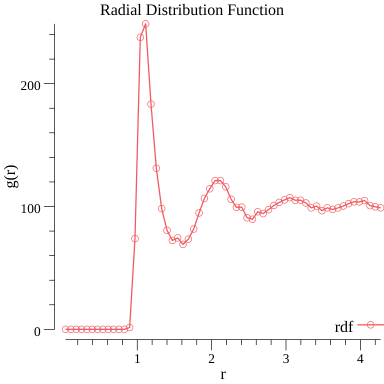
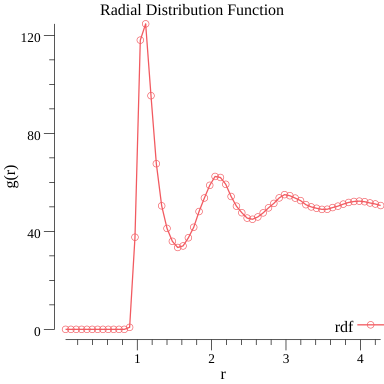
working first order langevin

diff --git a/integrators/langevin/langevin.go b/integrators/langevin/langevin.go
@@ -2,7 +2,9 @@
 package langevin
 
 import (
+	// "fmt"
 	"math"
+	// "os"
 	"math/rand"
 	"github.com/golang/geo/r3"
 	"github.com/comprhys/moldyn/core"
@@ -13,36 +15,46 @@ type VecReturn struct {
 	nV r3.Vector
 }
 
-// TimeStep evolves the system by one unit of time using the Velocity Verlet algorithm
-// for molecular dynamics using channels to provide simple parallelisarion.
-func TimeStep(R, V []r3.Vector, L, M, T0, gamma, dt float64) ([]r3.Vector, []r3.Vector) {
-	hdt := dt/2
+type Thermostat struct {
+	d float64
+	q float64
+	sigma float64
+	verlet bool
+}
+
+func PrepareThermostat(gamma, M, h, T0 float64, verlet bool) (Thermostat) {
+	d := h/2./M
+	q := gamma*h/2
+	sigma := math.Sqrt(h*T0*gamma/M)
+	return Thermostat{d, q, sigma, verlet}
+}
+
+
+// Implementation of first order langevin dynamics
+func TimeStep(R, V []r3.Vector, L, M, dt float64, therm Thermostat) ([]r3.Vector, []r3.Vector) {
 	N := len(R)
-	hR := make([]r3.Vector, N)
 	nR := make([]r3.Vector, N)
 	Fi := make([]r3.Vector, N)
 	nV := make([]r3.Vector, N)
 	cF := make(chan core.ForceReturn, N)
-	for n := 0; n < N; n++ {
-		hR[n] = core.PutInBox(NextR(R[n], V[n], hdt), L)
-	}
-	for i := 0; i < N; i++ { go core.InternalForce(i, hR, L, cF) }
+
+	for i := 0; i < N; i++ { go core.InternalForce(i, R, L, cF) }
 	for i := 0; i < N; i++ {
 		info := <- cF
 		Fi[info.Index] = info.F
 	}
-	for n := 0; n < N; n++ { nV[n] = NextV(V[n], Fi[n], dt, gamma, T0, M)}
-
-	// cV := make(chan VecReturn, N)
-	// for n := 0; n < N; n++ { go NextV(n, V[n], Fi[n], dt, gamma, T0, M, cV)}
-	// for i := 0; i < N; i++ {
-	// 	info := <- cV
-	// 	nV[info.Index] = info.nV
-	// }
+	for n := 0; n < N; n++ { nV[n] = NextV(V[n], Fi[n], therm)}
 
 	for n := 0; n < N; n++ {
-		nR[n] = core.PutInBox(NextR(hR[n], nV[n], hdt), L)
+		nR[n] = core.PutInBox(NextR(R[n], nV[n], dt), L)
 	}
+
+	for i := 0; i < N; i++ { go core.InternalForce(i, nR, L, cF) }
+	for i := 0; i < N; i++ {
+		info := <- cF
+		Fi[info.Index] = info.F
+	}
+	for n := 0; n < N; n++ { nV[n] = NextV(nV[n], Fi[n], therm)}
 
 	return nR, nV
 }
@@ -54,28 +66,21 @@ func NextR(r, v r3.Vector, h float64) (nr r3.Vector) {
 }
 
 // NextV calculates the next velocity vector based on current velocity and acceleration and future acceleration.
-func NextV(v, F r3.Vector, h, gamma, T0, M float64) (nv r3.Vector) {
-	d := math.Exp(-gamma/M*h)
-	q := M/gamma * (1 - d)
-	sigma := math.Sqrt(M*T0*(1-d*d))
-	eta := r3.Vector{rand.NormFloat64(),
-				rand.NormFloat64(),
-				rand.NormFloat64()}
+func NextV(v, F r3.Vector, therm Thermostat) (nv r3.Vector) {
+	
+	d := therm.d
+	q := therm.q
+	sigma := therm.sigma
 
-	nv = v.Mul(d).Add(F.Mul(q)).Add(eta.Mul(sigma))
+	nv = v.Add(F.Mul(d))
+
+	if therm.verlet {
+		eta := r3.Vector{rand.NormFloat64(), 
+							rand.NormFloat64(), 
+							rand.NormFloat64()}
+
+		nv = nv.Sub(v.Mul(q)).Add(eta.Mul(sigma))	
+	}
+
 	return
 }
-
-// Using channels when calculating NextV is slightly slower
-// func NextV(i int, v, F r3.Vector, h, gamma, T0, M float64, c chan VecReturn) {
-// 	d := math.Exp(-gamma/M*h)
-// 	q := M/gamma * (1 - d)
-// 	sigma := math.Sqrt(M*T0*(1-d*d))
-// 	eta := r3.Vector{rand.NormFloat64(),
-// 				rand.NormFloat64(),
-// 				rand.NormFloat64()}
-
-// 	nv := v.Mul(d).Add(F.Mul(q)).Add(eta.Mul(sigma))
-// 	c <- VecReturn{i, nv}
-
-// }

diff --git a/moldyn.go b/moldyn.go
@@ -6,6 +6,7 @@ import (
 	"time"
 	"runtime"
 	"math"
+	"math/rand"
 	"github.com/comprhys/moldyn/core"
 	"github.com/comprhys/moldyn/analysis"
 	"github.com/comprhys/moldyn/plot"
@@ -17,18 +18,24 @@ import (
 type Globals struct {
 	N           		int
 	rho, M, T0, gamma, dt float64
+	verlet bool
 }
 
 func init() {
+	rand.Seed(time.Now().UTC().UnixNano())
 	runtime.GOMAXPROCS(runtime.NumCPU())
 }
 
 func main() {
 	g := Globals{
-		N: 512, rho: 0.8,
+		N: 8*8*8, rho: 0.8,
 		T0: 1., M: 1.0,
-		gamma: .5, dt: 0.01,
+		gamma: 1., dt: 0.01,
+		verlet: true,
 	}
+
+
+	// current need N = M**3 
 
 	V := float64(g.N) / g.rho
 	L := math.Cbrt(V)
@@ -38,15 +45,23 @@ func main() {
 
 	dr := L/120
 	H, bins := analysis.PrepareHistogram(L/2, L, dr)
-	r_max := dr * float64(bins) 
+	r_max := dr * float64(bins)
+	
+	thermostat := langevin.PrepareThermostat(g.gamma, g.M, g.dt, g.T0, g.verlet)
+
+	// Warm up
+	for t := 0; t <= 100; t++ {
+		// Rs, Vs = verlet.TimeStep(Rs, Vs, L, g.M, g.dt)
+		Rs, Vs = langevin.TimeStep(Rs, Vs, L, g.M, g.dt, thermostat)
+	}
 
 	T := 1000
 	var temps []float64
 	start := time.Now()
 	for t := 0; t <= T; t++ {
 		// Rs, Vs = verlet.TimeStep(Rs, Vs, L, g.M, g.dt)
-		Rs, Vs = langevin.TimeStep(Rs, Vs, L, g.M, g.T0, g.gamma, g.dt)
-		if t % 10 == 0 {
+		Rs, Vs = langevin.TimeStep(Rs, Vs, L, g.M, g.dt, thermostat)
+		if t % 20 == 0 {
 			analysis.UpdateHistogram(Rs, r_max, L, dr, H)
 			temps = append(temps, analysis.Temperature(Vs, g.M, g.N))
 		}

diff --git a/core/initialize.go b/core/initialize.go
@@ -71,7 +71,6 @@ func InitPositionFCC(N int, L float64) []r3.Vector {
 // Ensures that the net momentum of the system is zero and scales the average kinetic energy to match a given temperature.
 func InitVelocity(N int, T0 float64, M float64) []r3.Vector {
 	V := make([]r3.Vector, N)
-	rand.Seed(1)
 	netP := r3.Vector{0, 0, 0}
 	netE := 0.0
 	for n := 0; n < N; n++ {

diff --git a/analysis/rdf.go b/analysis/rdf.go
@@ -47,7 +47,7 @@ func NormaliseHistogram(dr, rho float64, bins, N int, H []float64) (rdf, rad []f
         r:=dr*(j+0.5);
         vol_bin:=((j+1)*(j+1)*(j+1)-j*j*j)*dr*dr*dr;
         nid:=(4./3.)*math.Pi*vol_bin*rho;
-        rdf[i] = H[i]/(N_f*nid)
+        rdf[i] = H[i]/N_f/nid
 		rad[i] = r
 		j += 1.
 	}

diff --git a/plot/plot.go b/plot/plot.go
@@ -14,7 +14,7 @@ func PlotTemperature(Temps []float64, dt float64) {
 		panic(err)
 	}
 
-	p.Title.Text = "Radial Distribution Function"
+	p.Title.Text = "Temperature"
 	p.X.Label.Text = "t"
 	p.Y.Label.Text = "T"
 
